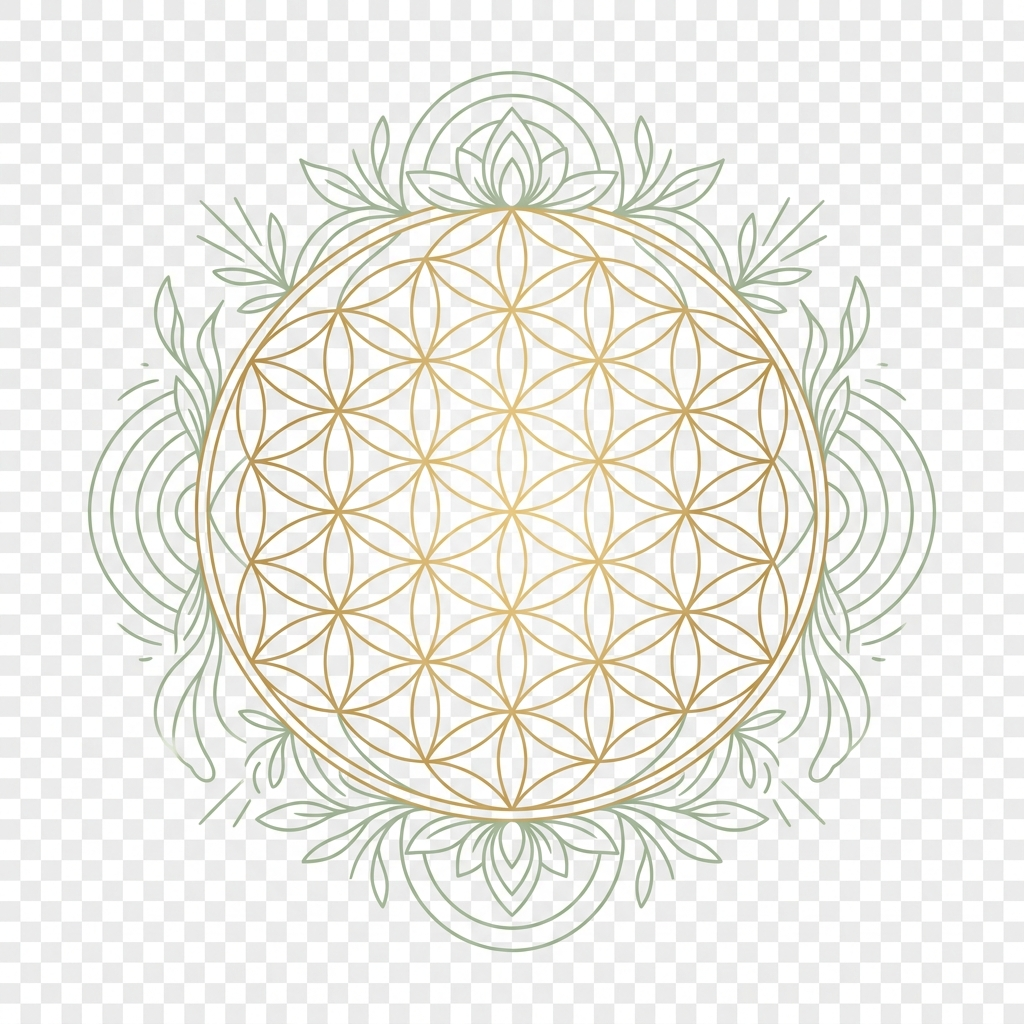
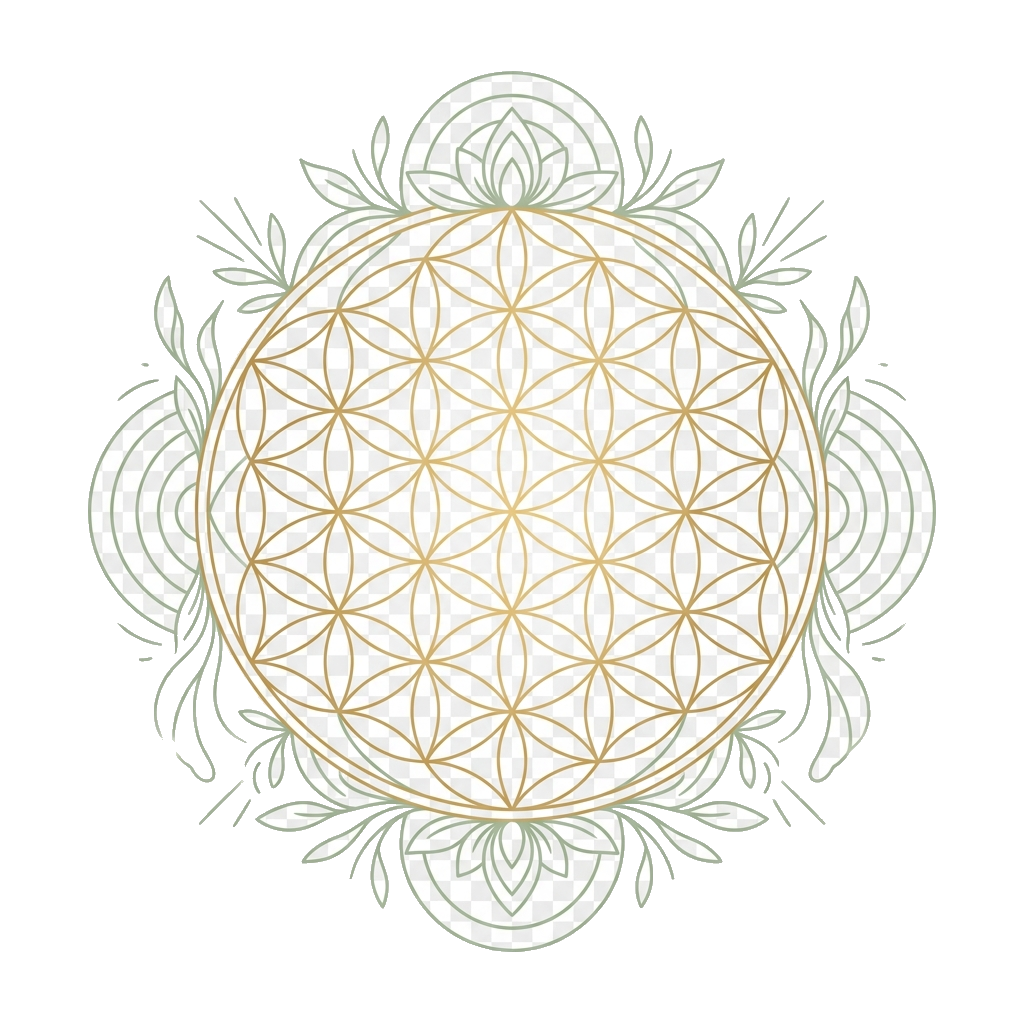
[Ned] Restore somatic mandala PNG asset (#NOISSUE)

diff --git a/docs/hde-somatic-mandala-asset-fix-20260717.md b/docs/hde-somatic-mandala-asset-fix-20260717.md
@@ -1,0 +1,19 @@
+# HDE somatic mandala asset fix — 2026-07-17
+
+## Scope
+
+`public/somatic_mandala.png` was checkpointed separately from the theme and runtime commits because it is a binary asset change.
+
+## Change
+
+The tracked file path is a `.png` asset. The prior blob at that path was JPEG-encoded data despite the `.png` filename. The replacement is a valid 1024×1024 PNG with RGBA channels.
+
+## Verification
+
+```bash
+file public/somatic_mandala.png
+git show HEAD:public/somatic_mandala.png | file -
+sha256sum public/somatic_mandala.png
+```
+
+Expected result after this checkpoint: the working asset reports `PNG image data, 1024 x 1024, 8-bit/color RGBA, non-interlaced`.
